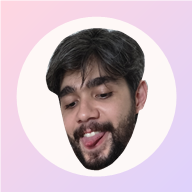
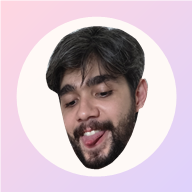
Add files via upload

diff --git a/index.html b/index.html
@@ -2,8 +2,9 @@
 <html lang="pt-BR">
 <head>
   <meta charset="UTF-8" />
-  <meta name="viewport" content="width=device-width, initial-scale=1.0, maximum-scale=1.0, user-scalable=no" />
+  <meta name="viewport" content="width=device-width, initial-scale=1.0, maximum-scale=1.0, user-scalable=no, viewport-fit=cover" />
   <meta name="theme-color" content="#FFD6E0" />
+  <meta name="mobile-web-app-capable" content="yes" />
   <meta name="apple-mobile-web-app-capable" content="yes" />
   <meta name="apple-mobile-web-app-status-bar-style" content="default" />
   <meta name="apple-mobile-web-app-title" content="Meu Venancinho" />
@@ -11,7 +12,7 @@
 
   <link rel="manifest" href="manifest.json" />
   <link rel="icon" type="image/png" href="assets/icon-192.png" />
-  <link rel="apple-touch-icon" href="assets/icon-192.png" />
+  <link rel="apple-touch-icon" sizes="512x512" href="assets/icon-512.png" />
 
   <!-- Google Fonts: Fredoka (títulos fofos), Nunito (corpo legível), Caveat (cartinhas à mão) -->
   <link rel="preconnect" href="https://fonts.googleapis.com" />
@@ -62,6 +63,21 @@
   </header>
 
   <main class="app-main">
+    <!-- BANNER FOFO PARA INSTALAR COMO APP NO CELULAR -->
+    <div id="install-banner" class="install-banner hidden">
+      <div class="install-banner-left">
+        <img src="assets/icon-192.png" alt="Ícone do app" class="install-banner-icon" />
+        <div>
+          <strong>Instalar no celular 📲</strong>
+          <span>Salve na tela inicial como um app!</span>
+        </div>
+      </div>
+      <div class="install-banner-actions">
+        <button type="button" class="btn btn-rose btn-sm" id="btn-install-app">Instalar</button>
+        <button type="button" class="install-close-btn" id="btn-dismiss-install" aria-label="Fechar">✕</button>
+      </div>
+    </div>
+
     <!-- ==================== VISÃO DA CAROLINE (TELA INICIAL) ==================== -->
     <section id="view-caroline" class="view-section">
       <!-- 1. RECADINHO DO VENÂNCIO LOGO NA TELA INICIAL -->
@@ -376,13 +392,27 @@
           autocomplete="off"
           required
         />
-        <p class="pin-hint">Dica: datas da viagem (2430)</p>
         <p class="pin-error hidden" id="pin-error">PIN incorreto, tenta de novo!</p>
         <div class="btn-row">
           <button type="button" class="btn btn-soft" id="btn-cancel-pin">Voltar</button>
           <button type="submit" class="btn btn-rose">Entrar ✨</button>
         </div>
       </form>
+    </div>
+  </div>
+
+  <!-- MODAL DE INSTALAÇÃO NO IPHONE / CELULAR -->
+  <div id="ios-install-modal" class="modal-backdrop hidden" role="dialog" aria-modal="true" aria-labelledby="ios-install-title">
+    <div class="modal-card">
+      <div class="modal-face-badge">
+        <img src="assets/icon-192.png" alt="Ícone Meu Venancinho" style="width:66px;height:66px;border-radius:50%;" />
+      </div>
+      <h2 id="ios-install-title">Instalar no celular 📲</h2>
+      <p class="modal-subtitle" id="install-instructions-text">
+        No <strong>iPhone (Safari)</strong>: toque no botão <strong>Compartilhar (⬆)</strong> na barra inferior e escolha <strong>"Adicionar à Tela de Início"</strong>.<br/><br/>
+        No <strong>Android (Chrome)</strong>: toque nos <strong>3 pontinhos (⋮)</strong> no canto superior e escolha <strong>"Instalar app"</strong> ou <strong>"Adicionar à tela inicial"</strong>.
+      </p>
+      <button type="button" class="btn btn-rose btn-full" id="btn-close-ios-modal">Entendi! 💗</button>
     </div>
   </div>
 

diff --git a/js/app.js b/js/app.js
@@ -722,7 +722,74 @@ function bindEvents() {
   });
 }
 
+// =========================================================
+// Instalação como App no Celular (PWA + Service Worker)
+// =========================================================
+let deferredInstallPrompt = null;
+
+function isRunningStandalone() {
+  return (
+    window.matchMedia("(display-mode: standalone)").matches ||
+    window.navigator.standalone === true
+  );
+}
+
+function setupPwaInstall() {
+  if ("serviceWorker" in navigator) {
+    navigator.serviceWorker.register("./sw.js").catch(() => {});
+  }
+
+  const banner = document.getElementById("install-banner");
+  const btnInstall = document.getElementById("btn-install-app");
+  const btnDismiss = document.getElementById("btn-dismiss-install");
+  const iosModal = document.getElementById("ios-install-modal");
+  const btnCloseIos = document.getElementById("btn-close-ios-modal");
+
+  btnCloseIos.addEventListener("click", () => iosModal.classList.add("hidden"));
+  btnDismiss.addEventListener("click", () => {
+    banner.classList.add("hidden");
+    sessionStorage.setItem("venancinho_install_dismissed", "1");
+  });
+
+  // Se já está aberto como app instalado, não mostra o banner
+  if (isRunningStandalone() || sessionStorage.getItem("venancinho_install_dismissed") === "1") {
+    return;
+  }
+
+  // Mostra o banner em celulares/tablets (e também quando Chrome dispara beforeinstallprompt)
+  const isMobile = /Android|iPhone|iPad|iPod/i.test(navigator.userAgent);
+  if (isMobile) {
+    banner.classList.remove("hidden");
+  }
+
+  window.addEventListener("beforeinstallprompt", (e) => {
+    e.preventDefault();
+    deferredInstallPrompt = e;
+    banner.classList.remove("hidden");
+  });
+
+  window.addEventListener("appinstalled", () => {
+    deferredInstallPrompt = null;
+    banner.classList.add("hidden");
+    showToast("App instalado na tela inicial! 💗📱");
+  });
+
+  btnInstall.addEventListener("click", async () => {
+    if (deferredInstallPrompt) {
+      deferredInstallPrompt.prompt();
+      const result = await deferredInstallPrompt.userChoice;
+      deferredInstallPrompt = null;
+      if (result && result.outcome === "accepted") {
+        banner.classList.add("hidden");
+      }
+    } else {
+      iosModal.classList.remove("hidden");
+    }
+  });
+}
+
 async function boot() {
+  setupPwaInstall();
   bindEvents();
   updateClocksAndCountdown();
   setInterval(updateClocksAndCountdown, 30000);

diff --git a/css/styles.css b/css/styles.css
@@ -150,8 +150,9 @@ body {
   z-index: 900;
   backdrop-filter: blur(14px);
   -webkit-backdrop-filter: blur(14px);
-  background: rgba(255, 251, 247, 0.86);
+  background: rgba(255, 251, 247, 0.88);
   border-bottom: 1px solid var(--border-soft);
+  padding-top: env(safe-area-inset-top, 0px);
 }
 
 .header-inner {
@@ -510,9 +511,9 @@ body {
   z-index: 1;
 }
 
-/* Toque pastel suave nos tiles do mapa */
+/* Toque pastel suave nos tiles do OpenStreetMap */
 #trip-map .leaflet-tile-pane {
-  filter: saturate(0.88) brightness(1.03) contrast(0.96);
+  filter: saturate(0.76) brightness(1.05) contrast(0.93);
 }
 
 .map-controls-overlay {
@@ -1310,10 +1311,77 @@ textarea {
 
 .app-footer {
   text-align: center;
-  padding: 12px 16px 32px;
+  padding: 12px 16px calc(32px + env(safe-area-inset-bottom, 0px));
   font-size: 0.8rem;
   color: var(--ink-soft);
   font-weight: 700;
+}
+
+/* Banner de instalação como App (PWA) */
+.install-banner {
+  display: flex;
+  align-items: center;
+  justify-content: space-between;
+  gap: 10px;
+  padding: 10px 14px;
+  margin-bottom: 14px;
+  border-radius: var(--radius-lg);
+  background: linear-gradient(135deg, var(--pink-soft), var(--lavender-soft), var(--mint-soft));
+  border: 1.5px solid #fff;
+  box-shadow: var(--shadow-card);
+}
+
+.install-banner-left {
+  display: flex;
+  align-items: center;
+  gap: 10px;
+  min-width: 0;
+}
+
+.install-banner-icon {
+  width: 40px;
+  height: 40px;
+  border-radius: 12px;
+  border: 2px solid #fff;
+  box-shadow: 0 3px 8px rgba(74, 53, 72, 0.14);
+  flex-shrink: 0;
+}
+
+.install-banner-left strong {
+  display: block;
+  font-family: 'Fredoka', sans-serif;
+  font-size: 0.92rem;
+  color: var(--ink);
+  line-height: 1.15;
+}
+
+.install-banner-left span {
+  display: block;
+  font-size: 0.76rem;
+  font-weight: 700;
+  color: var(--ink-soft);
+}
+
+.install-banner-actions {
+  display: flex;
+  align-items: center;
+  gap: 6px;
+  flex-shrink: 0;
+}
+
+.install-close-btn {
+  border: none;
+  background: rgba(255, 255, 255, 0.72);
+  color: var(--ink-soft);
+  width: 28px;
+  height: 28px;
+  border-radius: 50%;
+  font-size: 0.82rem;
+  font-weight: 800;
+  cursor: pointer;
+  display: flex;
+  align-items: center;
+  justify-content: center;
 }
 
 /* =========================================================

diff --git a/sw.js b/sw.js
@@ -1,0 +1,62 @@
+// Service Worker — Onde está meu Venancinho? 💗
+// Permite instalar como aplicativo nativo no celular (Android e iOS)
+const CACHE_NAME = "venancinho-app-v2";
+const APP_SHELL = [
+  "./",
+  "./index.html",
+  "./manifest.json",
+  "./css/styles.css",
+  "./js/app.js",
+  "./js/config.js",
+  "./js/data.js",
+  "./js/character.js",
+  "./js/map.js",
+  "./js/sync.js",
+  "./assets/venancio-face.png",
+  "./assets/icon-192.png",
+  "./assets/icon-512.png"
+];
+
+self.addEventListener("install", (event) => {
+  event.waitUntil(
+    caches.open(CACHE_NAME).then((cache) => cache.addAll(APP_SHELL)).catch(() => {})
+  );
+  self.skipWaiting();
+});
+
+self.addEventListener("activate", (event) => {
+  event.waitUntil(
+    caches.keys().then((keys) =>
+      Promise.all(keys.filter((k) => k !== CACHE_NAME).map((k) => caches.delete(k)))
+    )
+  );
+  self.clients.claim();
+});
+
+self.addEventListener("fetch", (event) => {
+  const url = event.request.url;
+
+  // Nunca faz cache de dados do Firebase ou tiles de mapa (sempre busca ao vivo)
+  if (
+    event.request.method !== "GET" ||
+    url.includes("firebaseio.com") ||
+    url.includes("firebasedatabase.app") ||
+    url.includes("openstreetmap.org") ||
+    url.includes("arcgisonline.com")
+  ) {
+    return;
+  }
+
+  // Network-first com fallback para cache (garante atualizações rápidas + abre offline)
+  event.respondWith(
+    fetch(event.request)
+      .then((res) => {
+        if (res && res.status === 200 && res.type === "basic") {
+          const clone = res.clone();
+          caches.open(CACHE_NAME).then((cache) => cache.put(event.request, clone));
+        }
+        return res;
+      })
+      .catch(() => caches.match(event.request))
+  );
+});

diff --git a/js/map.js b/js/map.js
@@ -55,12 +55,27 @@ export function initTripMap(initialLocation) {
     scrollWheelZoom: false
   }).setView([initialLocation.lat, initialLocation.lng], 12);
 
-  // Tiles claros e elegantes da CartoDB Voyager (combinam perfeitamente com pastel!)
-  L.tileLayer("https://{s}.basemaps.cartocdn.com/rastertiles/voyager/{z}/{x}/{y}{r}.png", {
-    attribution: '&copy; OpenStreetMap &copy; CARTO',
-    subdomains: "abcd",
+  // Tiles oficiais do OpenStreetMap (100% gratuitos, sem API key!)
+  // com fallback automático para ArcGIS World Street Map (também sem API key)
+  const osmLayer = L.tileLayer("https://tile.openstreetmap.org/{z}/{x}/{y}.png", {
+    attribution: "&copy; OpenStreetMap contributors",
     maxZoom: 19
-  }).addTo(mapInstance);
+  });
+
+  let fallbackLoaded = false;
+  osmLayer.on("tileerror", () => {
+    if (fallbackLoaded || !mapInstance) return;
+    fallbackLoaded = true;
+    L.tileLayer(
+      "https://server.arcgisonline.com/ArcGIS/rest/services/World_Street_Map/MapServer/tile/{z}/{y}/{x}",
+      {
+        attribution: "Tiles &copy; Esri",
+        maxZoom: 18
+      }
+    ).addTo(mapInstance);
+  });
+
+  osmLayer.addTo(mapInstance);
 
   // Linha suave da rota planejada da viagem (Manaus -> Recife -> João Pessoa)
   const plannedCoords = ROUTE_WAYPOINTS.map((w) => [w.lat, w.lng]);
